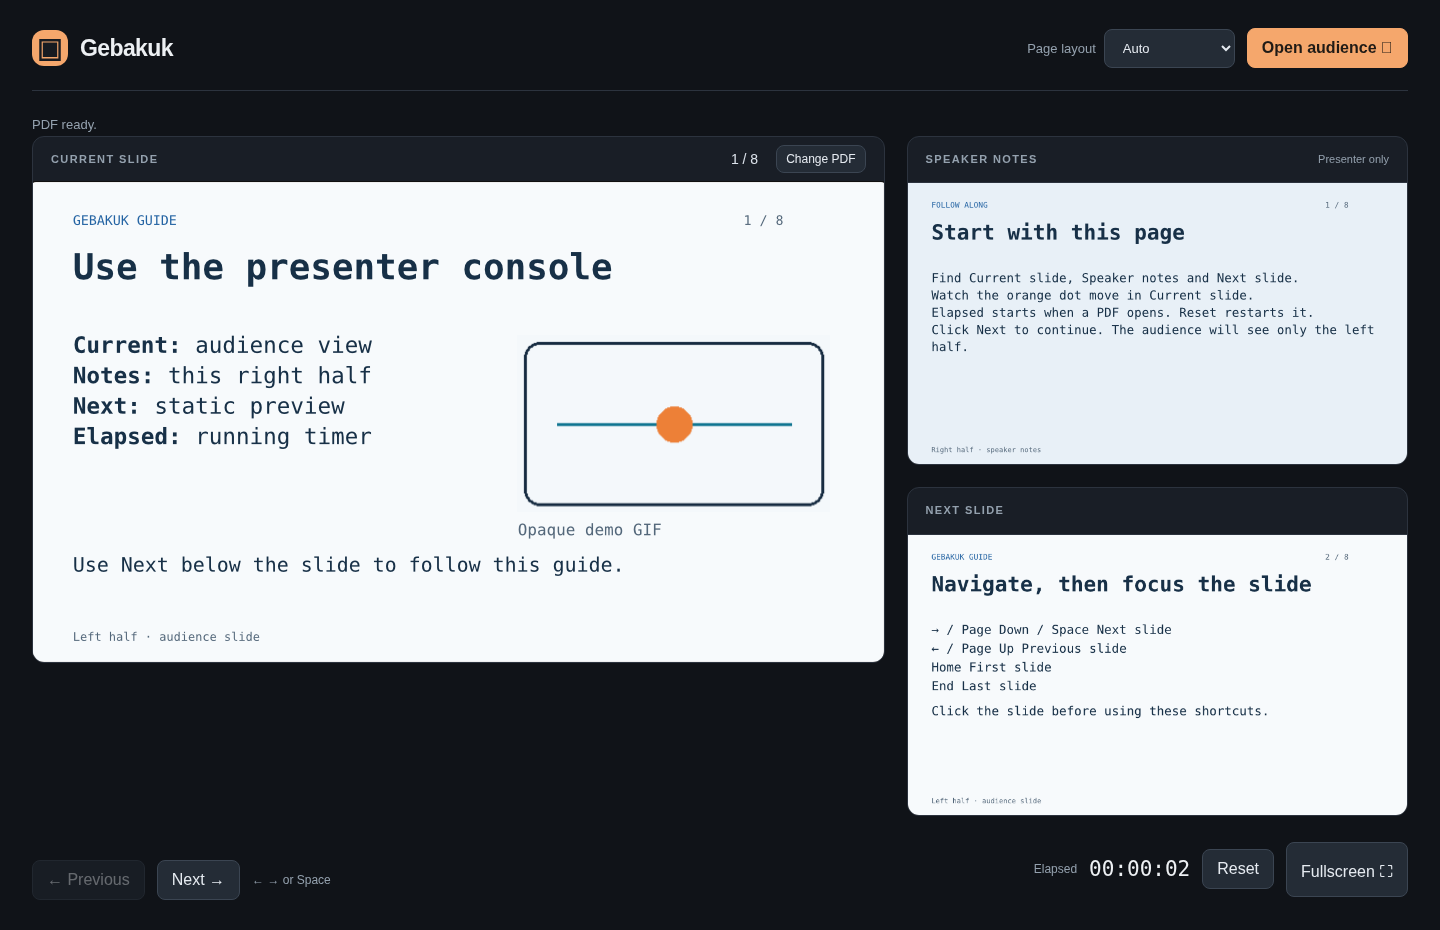
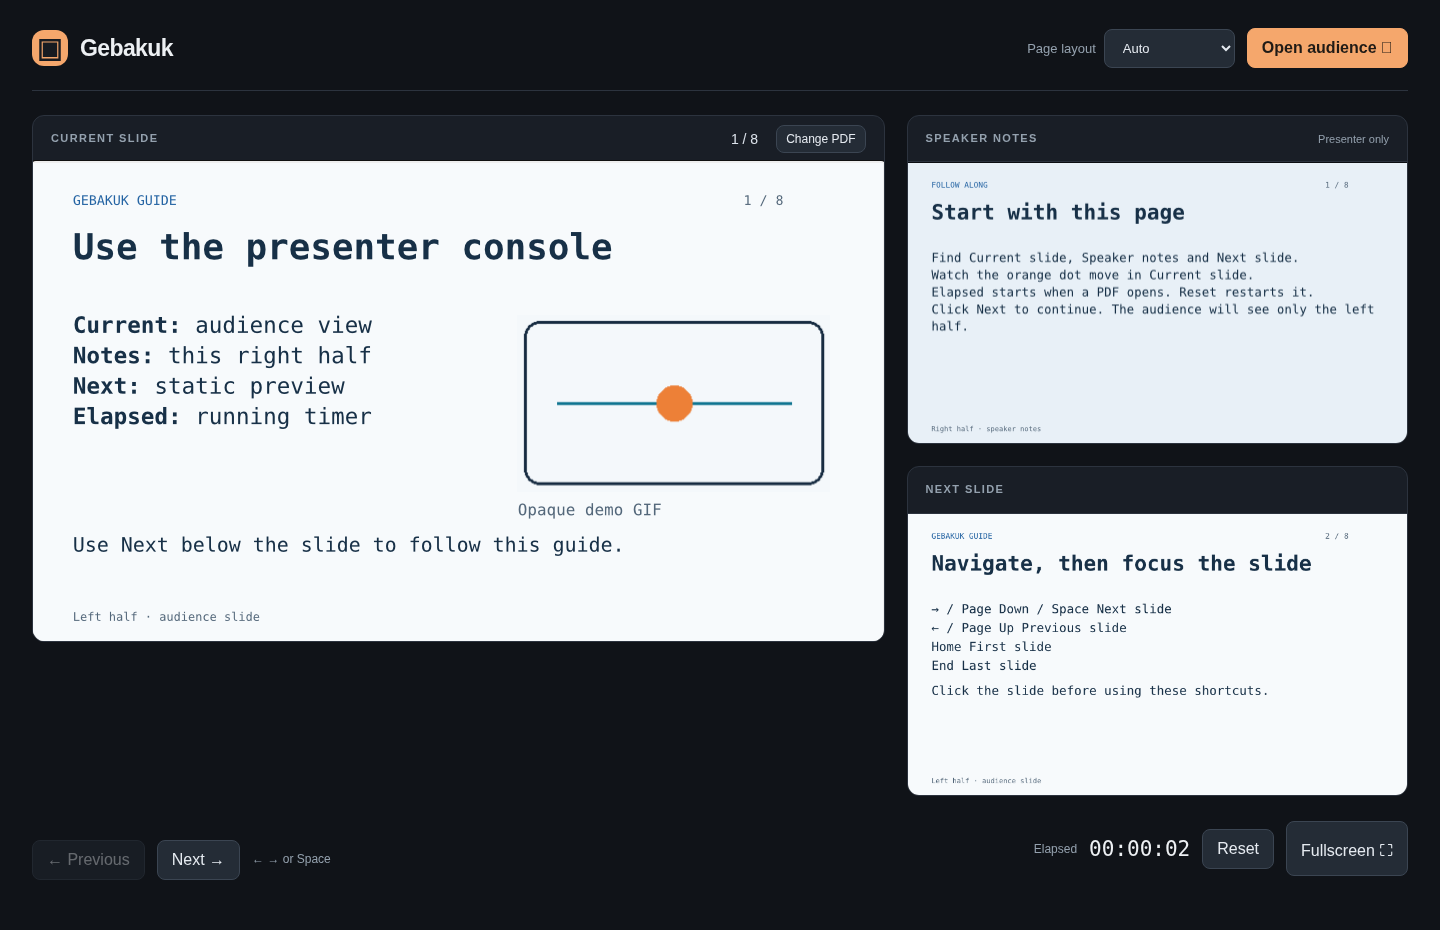
Remove the redundant PDF ready status

diff --git a/web/style.css b/web/style.css
@@ -63,6 +63,7 @@ h1, h2, p { margin-top: 0; }
 .timer-label, .hint, .keyboard-hint, .privacy-note { color: var(--muted); font-size: 12px; line-height: 1.7; }
 kbd { font-family: inherit; font-size: 10px; background: #242c36; color: #c2ccd7; border: 1px solid #3b4552; border-radius: 4px; padding: 2px 5px; }
 #status { color: var(--muted); font-size: 13px; line-height: 1.6; white-space: pre-line; margin-top: 18px; overflow-wrap: anywhere; }
+#status:empty { margin: 0; }
 #status[data-level="error"], #status.error { color: #ffb3a5; }
 .audience-shell { width: 100vw; height: 100vh; position: relative; background: #000; display: flex; align-items: center; justify-content: center; }
 .audience-shell .slide-viewport { width: 100%; height: 100%; aspect-ratio: auto; background: #000; }

diff --git a/crates/presenter-web/src/lib.rs b/crates/presenter-web/src/lib.rs
@@ -797,14 +797,7 @@ impl App {
             .as_ref()
             .map(|pdf| pdf.diagnostics().join(" · "))
             .unwrap_or_default();
-        self.status(
-            if diagnostics.is_empty() {
-                "PDF ready."
-            } else {
-                &diagnostics
-            },
-            false,
-        );
+        self.status(&diagnostics, false);
     }
 
     fn load_document(&mut self, bytes: Vec<u8>, remote_id: Option<u32>) {
